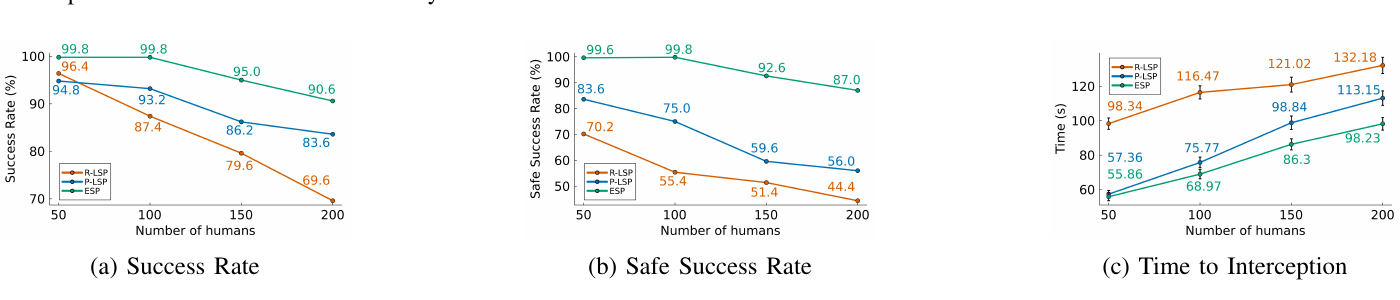
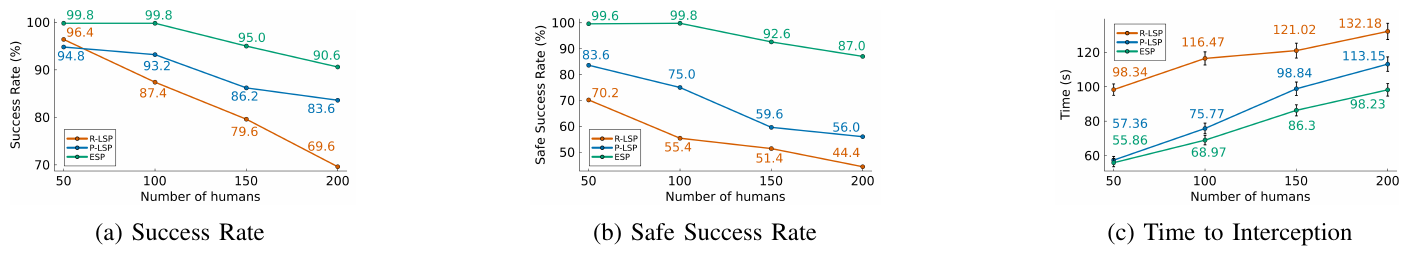
Refine project page presentation and results

diff --git a/index.html b/index.html
@@ -65,8 +65,11 @@
       <div class="hero-body">
         <div class="container is-max-widescreen has-text-centered">
           <p class="venue">IROS 2026</p>
-          <h1 class="title publication-title">Beyond Fixed-Goal Delivery</h1>
-          <p class="publication-subtitle">Online POMDP Planning for Target Interception in Crowds</p>
+          <h1 class="title publication-title">
+            Beyond Fixed-Goal Delivery: Online POMDP<br>
+            Planning for Target Interception in Crowds
+          </h1>
+          <div class="title-divider" aria-hidden="true"></div>
 
           <div class="publication-authors">
             <span class="author-block">Himanshu Gupta,</span>
@@ -84,9 +87,6 @@
             <span class="button is-rounded is-light coming-soon" aria-disabled="true">Code (coming soon)</span>
           </div>
 
-          <p class="takeaway">
-            A robot must intercept a moving target while navigating safely among humans whose intentions are unobservable.
-          </p>
         </div>
       </div>
     </section>
@@ -94,7 +94,6 @@
     <section class="section-tic" id="abstract">
       <div class="container is-max-desktop">
         <p class="section-eyebrow">Abstract</p>
-        <h2 class="section-title">Planning to meet a moving objective in a crowd</h2>
         <div class="content abstract-text">
           <p>
             Target interception in crowded environments requires reaching a moving objective while navigating among multiple uncertain human agents. Since human navigation intent is not directly observable, the robot must reason over multiple possible future interaction outcomes. We formulate interception in crowds as a partially observable Markov decision process and solve it online using tree search under a fixed computational budget. In this setting, the action-space structure directly shapes the search tree and how computational effort is allocated. We compare a sequential path–speed planner, which first plans a spatial path and then modulates speed along it, and a unified planner that jointly branches over steering and speed within tree search. Across simulations with up to 200 humans, both approaches perform similarly at low crowd density but diverge sharply as density increases. In dense settings, the sequential planner drops by over 30% in safe interception rate and requires around 40% more time to intercept than the unified steering–speed planner, revealing a structural limitation of spatial restriction.
@@ -117,27 +116,20 @@
 
     <section class="section-tic">
       <div class="container is-max-desktop">
-        <p class="section-eyebrow">Core finding</p>
-        <h2 class="section-title">Dense crowds expose the cost of spatial restriction</h2>
+        <p class="section-eyebrow">Planning formulations</p>
+        <h2 class="section-title">Action-space structure in online tree search</h2>
         <p class="section-lede">
-          Interception couples <strong>where</strong> the robot should meet the target with <strong>when</strong> it can safely arrive. As crowd density increases, planning speed along a fixed path becomes increasingly restrictive.
+          P-LSP first predicts a future target position and uses Hybrid A* to construct a kinodynamically feasible path to that position. Online tree search then controls the robot's speed along the fixed path. ESP instead exposes both steering and speed decisions to tree search. The experiments examine how this difference in action-space structure affects interception performance as crowd density increases.
         </p>
-        <div class="idea-grid">
-          <article class="idea-card">
-            <span class="card-label">P-LSP</span>
-            <h3>Predict a target position, then plan a path</h3>
-            <p>Predictive LSP uses Hybrid A* to plan a kinodynamically feasible path to the target's predicted future position. Tree search then controls only speed along that fixed path, restricting how the robot can respond when crowd interactions change where and when interception is feasible.</p>
-          </article>
-          <article class="idea-card">
-            <span class="card-label">ESP</span>
-            <h3>Steering and speed together</h3>
-            <p>Extended Space Planning jointly branches over steering and speed, allowing tree search to revise the spatial trajectory when interactions change the feasible interception time and location.</p>
-          </article>
-          <article class="idea-card result-highlight">
-            <span class="card-label">Dense crowds</span>
-            <h3><strong>31-point</strong> safe-success gap</h3>
-            <p>At 200 humans, ESP retains <strong>97% safe success</strong>, compared with <strong>66% for P-LSP</strong>, even though both approaches perform similarly at low crowd density.</p>
-          </article>
+        <div class="method-comparison">
+          <div class="method-block">
+            <h3>Predictive Limited Space Planning (P-LSP)</h3>
+            <p>Hybrid A* plans to a predicted future target position. Tree search selects speed updates along the resulting path.</p>
+          </div>
+          <div class="method-block">
+            <h3>Extended Space Planning (ESP)</h3>
+            <p>Tree search selects both steering and speed actions, allowing the spatial trajectory to change during planning.</p>
+          </div>
         </div>
       </div>
     </section>
@@ -145,67 +137,61 @@
     <section class="section-tic is-soft" id="results">
       <div class="container is-max-widescreen">
         <p class="section-eyebrow">Results</p>
-        <h2 class="section-title">Spatial flexibility preserves safe interception as crowds grow</h2>
+        <h2 class="section-title">Interception performance across crowd densities</h2>
         <p class="section-lede">
           We evaluate each planner over 500 paired trials at every crowd size, from 50 to 200 humans. The planners use the same observations, belief representation, reward, and 0.5-second planning budget.
         </p>
 
-        <div class="stat-grid">
-          <div class="stat-card">
-            <strong>97%</strong>
-            <span>ESP safe success at 200 humans</span>
-          </div>
-          <div class="stat-card">
-            <strong>66%</strong>
-            <span>P-LSP safe success at 200 humans</span>
-          </div>
-          <div class="stat-card">
-            <strong>31 pts</strong>
-            <span>ESP advantage in safe success over P-LSP</span>
-          </div>
-          <div class="stat-card">
-            <strong>98 vs. 114 s</strong>
-            <span>ESP versus P-LSP interception time with target estimation</span>
-          </div>
-        </div>
+        <h3 class="result-heading">Primary study</h3>
+        <p class="result-copy">
+          The primary study assumes that the target state is fully observable, isolating the effect of action-space structure under increasing crowd density.
+        </p>
+        <ul class="key-findings" aria-label="Primary study key findings at 200 humans">
+          <li><strong>Approximately 47% higher safe-success rate:</strong> 97% for ESP versus 66.2% for P-LSP.</li>
+          <li><strong>Approximately 30% shorter time to interception:</strong> 63.3 seconds for ESP versus 90.9 seconds for P-LSP.</li>
+        </ul>
 
         <figure class="result-figure">
           <img src="static/images/fig3_primary_results.png" loading="lazy" alt="Primary-study plots of interception success, safe-success, and time to interception as crowd size increases for ESP, predictive LSP, and reactive LSP">
           <figcaption>
-            <strong>Fully observable target.</strong> ESP and P-LSP are competitive at low density, but the gap widens with crowd size. At 200 humans, ESP maintains 98% interception success and 97% safe success; P-LSP achieves 96% success but only 66% safe success.
+            <strong>Figure 3: Fully observable target.</strong> Interception success rate, safe-success rate, and time to interception as a function of crowd density. At 200 humans, ESP and P-LSP achieve 98% and 96% interception success, respectively; their safe-success rates are 97% and 66%.
           </figcaption>
         </figure>
 
         <div class="result-divider"></div>
 
-        <h3 class="result-heading">The advantage persists when the target is only intermittently observed</h3>
+        <h3 class="result-heading">Secondary study</h3>
         <p class="result-copy">
-          In the secondary study, a particle filter estimates target state from intermittent detections. At 200 humans, ESP maintains about 90% success, compared with 83% for P-LSP. ESP intercepts in about 98 seconds on average, versus 114 seconds for P-LSP.
+          The secondary study uses a particle filter to estimate target state from intermittent detections, and the planner acts on the most likely target-state estimate.
         </p>
+        <ul class="key-findings" aria-label="Secondary study key findings at 200 humans">
+          <li><strong>Approximately 55% higher safe-success rate:</strong> 87% for ESP versus 56% for P-LSP.</li>
+          <li><strong>Approximately 13% shorter time to interception:</strong> 98.2 seconds for ESP versus 113.1 seconds for P-LSP.</li>
+        </ul>
         <figure class="result-figure">
           <img src="static/images/fig4_secondary_results.png" loading="lazy" alt="Secondary-study plots of interception success, safe-success, and time to interception with intermittent target observations">
           <figcaption>
-            <strong>Estimated target state.</strong> Spatially expressive search remains beneficial even when the planner must act on the most likely target estimate rather than the true target state.
+            <strong>Figure 4: Estimator–planner setting.</strong> Interception success rate, safe-success rate, and time to interception when the planner operates on the most likely target-state estimate.
           </figcaption>
         </figure>
 
         <div class="result-divider"></div>
 
-        <h3 class="result-heading">ESP keeps moving instead of hesitating</h3>
+        <h3 class="result-heading">Motion characteristics</h3>
         <p class="result-copy">
-          Compared with P-LSP, ESP exhibits less idle time, higher average speed, and fewer sudden-braking events. It can travel farther while still intercepting sooner, indicating active maneuvering around people rather than stalling along a restricted path.
+          In the estimator–planner study, ESP exhibits lower idle time, higher average speed, and fewer sudden-braking events than P-LSP. ESP also covers more distance while requiring less time to intercept the target.
         </p>
         <figure class="result-figure">
           <img src="static/images/fig5_motion_statistics.png" loading="lazy" alt="Motion-statistics plots comparing idle time, average speed, sudden braking, and distance traveled">
           <figcaption>
-            <strong>Motion characteristics.</strong> P-LSP increasingly hesitates and brakes reactively as crowd density rises, while ESP maintains more consistent progress.
+            <strong>Figure 5: Motion statistics.</strong> Idle time, average speed, sudden-braking count, and distance traveled in the estimator–planner setting.
           </figcaption>
         </figure>
 
         <figure class="result-figure">
           <img src="static/images/fig6_interception_snapshots.png" loading="lazy" alt="Five snapshots showing ESP navigating through a dense crowd toward a moving target while maintaining a particle-filter target belief">
           <figcaption>
-            <strong>Representative ESP trial.</strong> The robot progresses through the crowd toward the moving target while maintaining a particle-filter belief from intermittent observations.
+            <strong>Figure 6: Representative ESP trial.</strong> Snapshots at <em>T</em> = {5, 15, 30, 50, 60} s. The robot (white) navigates through a dense crowd to intercept the target (yellow) while maintaining a belief over the target state. Red dots denote particles of the particle-filter belief, black figures represent humans, the blue sector shows the robot's sensing region, and the orange curve shows the executed robot trajectory.
           </figcaption>
         </figure>
       </div>

diff --git a/static/css/index.css b/static/css/index.css
@@ -22,21 +22,20 @@ a { color: var(--blue); }
 }
 .hero-body { padding: 5rem 1.5rem 4.5rem; }
 .venue, .section-eyebrow {
-  color: var(--teal); font-size: .8rem; font-weight: 700;
-  letter-spacing: .11em; text-transform: uppercase;
+  color: var(--teal); font-size: 1.05rem; font-weight: 700;
+  letter-spacing: .1em; line-height: 1.3; text-transform: uppercase;
 }
 .venue { margin-bottom: 1rem; }
 .publication-title {
   color: var(--ink); font-family: "Google Sans", "Noto Sans", sans-serif;
-  font-size: clamp(2.55rem, 6vw, 4.5rem); letter-spacing: -.035em;
-  line-height: 1.02; margin: 0 auto 1rem !important; max-width: 1050px;
+  font-size: clamp(2rem, 4.4vw, 3.5rem); letter-spacing: -.025em;
+  line-height: 1.12; margin: 0 auto 1.1rem !important; max-width: 1180px;
 }
-.publication-subtitle {
-  color: var(--navy); font-family: "Google Sans", "Noto Sans", sans-serif;
-  font-size: clamp(1.25rem, 2.5vw, 1.75rem); line-height: 1.3;
-  margin: 0 auto 1.75rem; max-width: 900px;
+.title-divider {
+  background: var(--teal); border-radius: 999px; height: 3px;
+  margin: 0 auto 1.35rem; width: 84px;
 }
-.publication-authors { color: var(--ink); font-size: 1.08rem; line-height: 1.8; }
+.publication-authors { color: var(--ink); font-size: 1.2rem; line-height: 1.8; }
 .author-block { display: inline-block; margin-right: .15rem; }
 .affiliation { color: var(--muted); margin-top: .35rem; }
 .publication-links { margin-top: 1.5rem; }
@@ -45,10 +44,6 @@ a { color: var(--blue); }
 .button.is-tic { background: var(--navy); border-color: var(--navy); color: #fff; }
 .button.is-tic:hover, .button.is-tic:focus {
   background: #0f304a; border-color: #0f304a; color: #fff;
-}
-.takeaway {
-  color: var(--muted); font-size: 1.1rem; line-height: 1.6;
-  margin: 1.6rem auto 0; max-width: 780px;
 }
 .section-tic { padding: 4.5rem 1.5rem; }
 .section-tic.is-soft {
@@ -73,40 +68,23 @@ a { color: var(--blue); }
 .abstract-text {
   color: #344957; font-size: 1.05rem; line-height: 1.75; text-align: justify;
 }
-.idea-grid {
-  display: grid; gap: 1rem; grid-template-columns: repeat(3, minmax(0, 1fr));
+.method-comparison {
+  border-bottom: 1px solid var(--line); border-top: 1px solid var(--line);
+  display: grid; grid-template-columns: repeat(2, minmax(0, 1fr)); margin-top: 1.75rem;
 }
-.idea-card {
-  background: var(--panel); border: 1px solid var(--line);
-  border-radius: 10px; padding: 1.35rem;
+.method-block { padding: 1.35rem 1.5rem 1.35rem 0; }
+.method-block + .method-block {
+  border-left: 1px solid var(--line); padding-left: 1.5rem;
 }
-.card-label {
-  background: #e2f1ef; border-radius: 999px; color: var(--teal);
-  display: inline-block; font-size: .75rem; font-weight: 700;
-  letter-spacing: .06em; margin-bottom: .85rem; padding: .35rem .7rem;
-  text-transform: uppercase;
+.method-block h3 { font-size: 1.05rem; font-weight: 700; margin-bottom: .55rem; }
+.method-block p { color: var(--muted); font-size: .95rem; line-height: 1.6; }
+.key-findings {
+  background: #fff; border-left: 3px solid var(--teal);
+  margin: 1.25rem 0 2rem; padding: 1rem 1.25rem 1rem 2.5rem;
 }
-.idea-card h3 { font-size: 1.05rem; font-weight: 700; margin-bottom: .55rem; }
-.idea-card p { color: var(--muted); font-size: .95rem; line-height: 1.55; }
-.result-highlight {
-  background: var(--navy); border-color: var(--navy);
-}
-.result-highlight .card-label { background: rgba(255, 255, 255, .13); color: #dff8f4; }
-.result-highlight h3, .result-highlight p, .result-highlight p strong { color: #fff; }
-.result-highlight h3 strong { color: #7ee0d3; font-size: 1.4rem; }
-.stat-grid {
-  display: grid; gap: 1rem; grid-template-columns: repeat(auto-fit, minmax(220px, 1fr));
-  margin: 1.75rem 0 2rem;
-}
-.stat-card {
-  background: #fff; border: 1px solid var(--line); border-radius: 10px;
-  min-width: 0; overflow-wrap: anywhere; padding: 1.15rem;
-}
-.stat-card strong {
-  color: var(--navy); display: block; font-family: "Google Sans", "Noto Sans", sans-serif;
-  font-size: 2rem; line-height: 1; margin-bottom: .55rem;
-}
-.stat-card span { color: var(--muted); font-size: .9rem; line-height: 1.4; }
+.key-findings li { color: var(--muted); line-height: 1.6; }
+.key-findings li + li { margin-top: .45rem; }
+.key-findings strong { color: var(--ink); }
 .result-figure { margin: 2rem 0 0; }
 .result-figure img {
   background: #fff; border: 1px solid var(--line); border-radius: 10px;
@@ -134,13 +112,12 @@ pre {
 @media screen and (max-width: 768px) {
   .hero-body { padding: 3.5rem 1.1rem 3rem; }
   .section-tic { padding: 3.25rem 1rem; }
-  .idea-grid { grid-template-columns: 1fr; }
-  .stat-grid { grid-template-columns: repeat(2, minmax(0, 1fr)); }
+  .method-comparison { grid-template-columns: 1fr; }
+  .method-block { padding: 1.2rem 0; }
+  .method-block + .method-block {
+    border-left: 0; border-top: 1px solid var(--line); padding-left: 0;
+  }
   .abstract-text { text-align: left; }
   .paper-heading { align-items: flex-start; flex-direction: column; margin-bottom: 1rem; }
   .paper-frame { min-height: 480px; }
-}
-
-@media screen and (max-width: 480px) {
-  .stat-grid { grid-template-columns: 1fr; }
 }